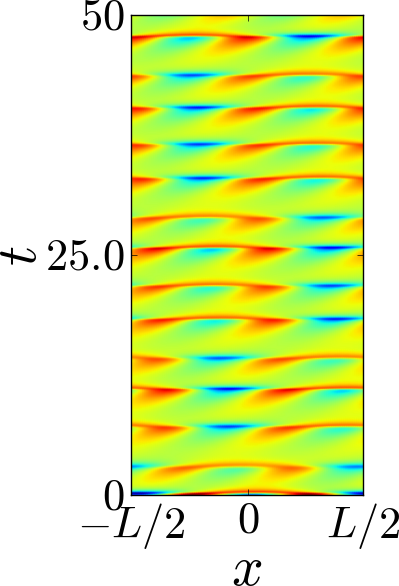
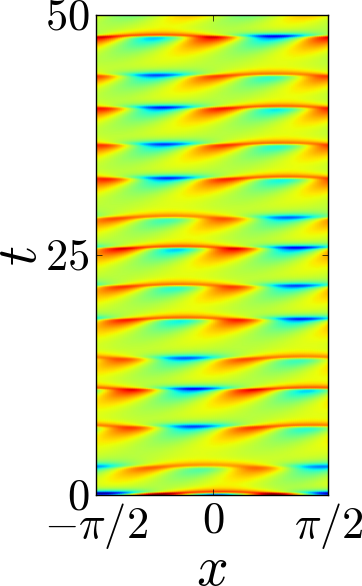
updated visualization section, added new figures, answered question from Evangelos

Changed region(s): [[0.0, 0.0, 1.0, 0.9522], [0.547, 0.9522, 0.6685, 1.0], [0.7597, 0.1229, 0.8508, 0.1536]]

diff --git a/cgang/flow.tex b/cgang/flow.tex
@@ -373,7 +373,7 @@ This \reqv\ traces out its group orbit in the \SOn{2}-equivariant, real-valued
 
 Before finishing our discussion of invariant polynomials, we have to make an
 important observation: Consider the case when the reflection symmetry breaking
-parameters $e_{1,2}$ in \refeq{eq:DangSO2} set to $0$. This restores 
+parameters, $e_{1,2}$ in \refeq{eq:DangSO2}, are set to $0$. This restores 
 $\sspC_{1,2} \rightarrow \bar{\sspC}_{1,2}$ symmetry, which is broken in 
 the \SOn{2}-equivariant case. Now, note that setting $ e_{1,2} $ to $0$ 
 decouples $q$ in \refeq{PKinvEqs1} from the rest of the invariant polynomials.
@@ -395,88 +395,55 @@ are left with three invariant polynomials that are related to each other by the
 syzygy \refeq{eq:syzPK}, thus the flow is effectively confined on a two dimensional
 manifold, hence cannot exhibit chaos. We must stress that this is a special result
 when one has only first and second Fourier mode, and the equivariant normal form 
-%includes terms upto the third order. 
+includes terms upto the third order. 
 
 \subsection{Visualizing \twomode\ dynamics}
 \label{s:visual}
 
-\begin{figure}%[H]
+\begin{figure*}%[H]
 \centering
-(a)\!\!\includegraphics[width=0.22\textwidth]{2modes-conf-reqv}%
-(b)\!\!\includegraphics[width=0.22\textwidth]{2modes-conf-reqv}%
+(a)\!\!\includegraphics[height=0.22\textwidth]{2modes-conf-reqv}%
+(b)\!\!\includegraphics[height=0.22\textwidth]{2modes-confred-reqv}%
+(c)\!\!\includegraphics[height=0.22\textwidth]{2modes-conf-rpo}%
+(d)\!\!\includegraphics[height=0.22\textwidth]{2modes-confred-rpo}%
+(e)\!\!\includegraphics[height=0.22\textwidth]{2modes-conf-ergodic}%
+(f)\!\!\includegraphics[height=0.22\textwidth]{2modes-confred-ergodic}%
 \caption{(Color online)
 The \reqv\ \REQV{}{} in
- (a) the full \statesp, becomes an \eqv\ in
+ (a) the symmetry-equivariant configuration space, becomes an \eqv\ in
  (b) the symmetry-reduced configuration space.
-}
-\label{fig:2modes-conf-reqv}
-\end{figure}
-
-\begin{figure}%[H]
-\centering
-(a)\!\!\includegraphics[width=0.22\textwidth]{2modes-conf-ergodic}
-(b)\!\!\includegraphics[width=0.22\textwidth]{2modes-conf-rpo}%
-\caption{(Color online)
- (a) A typical ergodic trajectory of the \twomode\ system in the
- symmetry-reduced configuration space; clearly the unstable \reqv\
- \REQV{}{} in \reffig{fig:2modes-conf-reqv}\,(b) is far from a typical
- state.
- (b) Two repeats of \rpo\ \cycle{01}  (note the different time scale),
- in the symmetry-reduced configuration space. The dynamics is mostly
- dominated by the $m=1$ Fourier mode, interspersed by rapid shifts by
- $\approx \pm L/2$, dominated by the  $m=2$ Fourier mode.
+Two repeats of \rpo\ \cycle{01} in the 
+ (c) the symmetry-equivariant configuration space, becomes a \po\ in
+ (d) the symmetry-reduced configuration space.
+A typical ergodic trajectory of the \twomode\ system 
+ the symmetry-equivariant configuration space (e), 
+ in the symmetry-reduced configuration space (f).
+Note that the color scale of each figure is different
+for visibility. 
 }
 \label{fig:2modes-conf}
-\end{figure}
+\end{figure*}
 
-\begin{figure}%[H]
+\begin{figure*}%[H]
 \centering
-\includegraphics[width=0.45\textwidth]{2modes-ssp}
+(a)\includegraphics[width=0.30\textwidth]{2modes-ssp}
+(b)\includegraphics[width=0.30\textwidth]{2modes-invpol}
+(c)\includegraphics[width=0.30\textwidth]{2modes-sspRed}
 \caption{(Color online)
-The same trajectories as in \reffig{fig:2modes-conf},
+The same trajectories as in \reffig{fig:2modes-conf} (a), (c), and (d),
 colored green, red and blue respectively,
-in a 3D projection of the 4\dmn\ \statesp.
+	(a) in a 3D projection of the 4\dmn\ \statesp ,
+	(b) in a terms of 3 invariant polynomials,
+	(c) in the 3\dmn\  first Fourier mode \slicePlane.
+Note that in the symmetry reduced representations (b and c), the \reqv\ \REQV{}{}
+is reduced to an \eqv , the green point; and the \cycle{01} (red) closes onto 
+itself after one repeat. In contrast to the invariant polynomial representation (b), 
+in the first Fourier mode \slicePlane (c), the qualitative difference between shifts 
+by $\approx \pi$ and $\approx-\pi$ in near passages to the {\sliceBord} is very clear, 
+and it leads to the unimodal Poincar\'e return map of \reffig{fig:psectandretmap}.
 }
 \label{fig:2modes-ssp}
-\end{figure}
-
-\begin{figure}%[H]
-\centering
-\includegraphics[width=0.45\textwidth]{2modes-invpol}
-\caption{(Color online)
-The same trajectories as in \reffig{fig:2modes-conf} and
-\reffig{fig:2modes-conf-reqv}\,(a), colored green, red
-and blue respectively, in a terms of 3 invariant polynomials.
-The \reqv\ \REQV{}{} is now reduced to an \eqv, the green point.
-}
-\label{fig:2modes-invpol}
-\end{figure}
-
-\begin{figure}%[H]
-\centering
-\includegraphics[width=0.45\textwidth]{2modes-sspRed}
-\caption{(Color online)
-The same trajectories as in \reffig{fig:2modes-conf} and
-\reffig{fig:2modes-conf-reqv}\,(a), colored green, red
-and blue respectively, in the 3\dmn\  first Fourier mode \slicePlane. The
-\reqv\ \REQV{}{} is now reduced to an \eqv, the green point. In contrast
-to the invariant polynomial representation \reffig{fig:2modes-invpol},
-the qualitative difference between shifts by $\approx L/2$ and $\approx
--L/2$ in near passages to the {\sliceBord} is very clear, and it leads to
-the unimodal Poincar\'e return map of \reffig{fig:psectandretmap}.
-}
-\label{2modes-sspRed}
-\end{figure}
-
-\PC{2014-07-14
-Why $\pm L/2$ in \reffig{fig:2modes-conf} and
-\reffig{fig:2modes-conf-reqv} and not $\pm \pi$?
-}
-\ES{2014-05-15}{I have replaced the second-mode slice, double-angled
-figure in \reffig{2modes-conf-reqv}\,(b) with one resulting by integrating on the
-$(0,0,1,0)$ slice, for consistency with panel (c). I hope Burak will
-replace it with a publication quality figure of the same representation.
-The trick of angle doubling will be introduced in its own section. }
+\end{figure*}
 
 We visualize the dynamics of the \twomode\ system in four different
 representations: 3D projections of the four-dimensional real valued
@@ -485,21 +452,38 @@ configuration space plots on which the color-coded field $u(\conf,\zeit)$
 is defined as follows:
 \bea
 	u(\conf, \tau) &=& \sum_{k=-2}^{2} \sspC_k(\zeit) e^{i k \conf}\, ,
-	\continue && \mbox{where} \, \sspC_{-k} = \sspC_k^* \, \mbox{and} \,
-	\sspC_0 = 0
+	\continue && \mbox{where} \, \sspC_{-k} = \sspC_k^* \, , \,
+	\sspC_0 = 0\, , \continue && \mbox{and} \, \conf \in [- \pi, \pi]
 \, .
 \eea
-\refFig{fig:2modes-conf}, \reffig{fig:2modes-conf-reqv}\,(a)
-and \reffig{2modes-sspRed} show the sole \reqv\
-\REQV{}{}, the \rpo\ \cycle{01}, and an ergodic trajectory of the
-\twomode\ system in the four different representations discussed above.
-Note that translation of the \reqv\ in the configuration space
-\reffig{fig:2modes-conf-reqv}\,(a), corresponds to the \SOn{2} rotations in
-the \statesp\ of Fourier modes in \reffig{2modes-ssp} (green curve) and
-these orbits correspond to a single point in the symmetry reduced
-representations of \reffig{fig:2modes-invpol} and \reffig{2modes-sspRed}.
-Note also that the \rpo\ \cycle{01} translates/rotates as it advances in
-configuration space (\reffig{fig:2modes-conf}\,(b)) and in the
-equivariant \statesp\ \reffig{2modes-sspRed} (\reffig{2modes-ssp}),
-whereas in the symmetry reduced plots (\reffig{fig:2modes-invpol} and
-\reffig{2modes-sspRed}), it closes onto itself after one period.
+We can also define the symmetry reduced configuration space representation
+as the inverse Fourier transform of the symmetry reduced Fourier modes:
+\bea
+	\hat{u}(\conf, \tau) &=& \sum_{k=-2}^{2} \sspRedC_k(\zeit) e^{i k \conf}\, ,
+	\continue && \mbox{where} \, \sspRedC_{-k} = \sspRedC_k^* \, , \,
+	\sspRedC_0 = 0\, , \continue && \mbox{and} \, \conf \in [- \pi, \pi]
+\, .
+\eea
+\refFig{fig:2modes-conf} (a, b) show the sole \reqv\ \REQV{}{}, 
+of the \twoMode\ system in the symmetry-equivariant and symmetry-reduced
+configuration spaces, respectively. Note that the \reqv\ becomes an \eqv\ after 
+the symmetry reduction. \refFig{fig:2modes-conf} (c, d) show the 
+\rpo\ \cycle{01} again respectively in the symmetry-equivariant and 
+symmetry-reduced configuration space representations. Similar to the
+\reqv, the \rpo\ becomes a \po\ after symmetry reduction. Finally, 
+\refFig{fig:2modes-conf} (c, d) show a typical ergodic trajectory
+of the \twoMode\ system in symmetry-equivariant and symmetry-reduced
+configuration space representations. Note, in each case, symmetry 
+reduction cancels the `drifts' along the symmetry ($x$) direction.
+These drifts translates to the Fourier mode representation as $\SOn{2}$
+rotations as we can clearly see from the \statesp\ plots of these 
+orbits in \reffig{fig:2modes-ssp} (a). The \reqv\ \REQV{}{} now 
+traces its \SOn{2} group orbit (green curve in 
+\reffig{fig:2modes-ssp} (a)) as it drifts in the configuration space;
+\rpo\ \cycle{01} (red) and the ergodic trajectory (blue) also rotate
+in the same fashion as they evolve. \refFig{fig:2modes-ssp} (c, d) 
+show three invariant polynomial projections and 3\dmn\ \slicePlane\
+representations of the same orbits, with the same color code. Note
+in both \refFig{fig:2modes-ssp} (c) and (d) the \reqv\ is reduced
+to an \eqv\ and the \rpo\ is reduced to a \po , since both of these
+representations are symmetry-invariant.

diff --git a/figSrc/2modes/ftwomodeconf.py b/figSrc/2modes/ftwomodeconf.py
@@ -32,6 +32,7 @@ x03 = [0.0384074556708, 0.0, -1.90362452394, 0.0668631895808] #attractor
 xphi01 = [0.43997, 0, -0.38627, 0.07020, 0] #reqv
 xphi02 = [4.525719078826287434e-01, -2.791192295890519988e-18, 
 5.092565177630036660e-02, 3.354280141917114627e-02, 0] #rpo 1 
+xphi02 = [0.43998243, 0.0, -1.68577368, 0.06639063, 0] #rpo 01 
 xphi03 = [0.0384074556708, 0.0, -1.90362452394, 0.0668631895808, 0] #attractor
 
 u01 = twomode.ssp2invpol(x01)
@@ -50,6 +51,11 @@ xsolreqv = sspsolver.integrate(x01, p, treqv)
 xsolrpo = sspsolver.integrate(x02, p, trpo)
 xsolergo = sspsolver.integrate(x03, p, tergo)
 
+xhatsolreqv = onslicesolver.integrate(xphi01, p, treqv)
+xhatsolrpo = onslicesolver.integrate(xphi02, p, trpo)
+xhatsolergo = onslicesolver.integrate(xphi03, p, tergo)
+
+
 def inverseFourier(xsol):
     """
     Generates configuration space solution u(x) = F^-1{z[k]} from the Fourier 
@@ -67,9 +73,14 @@ def inverseFourier(xsol):
     usol = usol.reshape((np.size(usol,0), np.size(usol, 2)))
     return usol
 
+#Compute inverse Fourier transforms of the equivariant solutions
 usolreqv = inverseFourier(xsolreqv)
 usolrpo = inverseFourier(xsolrpo)
 usolergo = inverseFourier(xsolergo)
+#Compute inverse Fourier transforms of the invariant solutions
+uhatsolreqv = inverseFourier(xhatsolreqv[:,0:4])
+uhatsolrpo = inverseFourier(xhatsolrpo[:,0:4])
+uhatsolergo = inverseFourier(xhatsolergo[:,0:4])
 
 fig = plt.figure(figsize=(3, 6)) #Create a figure instance
 
@@ -80,14 +91,32 @@ im = plt.pcolormesh(x, y, usolreqv[range(0,np.size(treqv),10),:], shading='goura
 
 plt.axis([x.min(), x.max(), y.min(), y.max()])
 
-plt.xticks([x[0],x[np.floor(np.size(x)/2)],x[-1]], ('$-L/2$', '$0$', '$L/2$'), fontsize=32)
-plt.yticks([0,tfreqv/2,tfreqv], 
-('$'+str(0)+'$', '$'+str(np.floor(tfreqv/2))+'$', '$'+str(tfreqv)+'$'), fontsize=32)
+plt.xticks([x[0],x[np.floor(np.size(x)/2)],x[-1]], ('$-\pi / 2$', '$0$', '$\pi / 2$'), fontsize=32)
+plt.yticks([0,tfreqv/2.0,tfreqv], 
+('$'+str(0)+'$', '$'+str(tfreqv/2)[0:2]+'$', '$'+str(tfreqv)[0:2]+'$'), fontsize=32)
 plt.xlabel('$x$', fontsize=40)
 plt.ylabel('$t$', fontsize=40)
 
 savefig('2modes-conf-reqv.png', bbox_inches='tight', dpi=100)
 call(['convert', '-trim', '2modes-conf-reqv.png', '2modes-conf-reqv.png'])
+
+fig.clf()
+
+x = np.arange(-np.size(uhatsolreqv, 1)/2, np.size(uhatsolreqv, 1)/2)
+y = treqv[range(0,np.size(treqv),10)]
+
+im = plt.pcolormesh(x, y, uhatsolreqv[range(0,np.size(treqv),10),:], shading='gouraud')
+
+plt.axis([x.min(), x.max(), y.min(), y.max()])
+
+plt.xticks([x[0],x[np.floor(np.size(x)/2)],x[-1]], ('$-\pi / 2$', '$0$', '$\pi / 2$'), fontsize=32)
+plt.yticks([0,tfreqv/2.0,tfreqv], 
+('$'+str(0)+'$', '$'+str(tfreqv/2)[0:2]+'$', '$'+str(tfreqv)[0:2]+'$'), fontsize=32)
+plt.xlabel('$x$', fontsize=40)
+plt.ylabel('$t$', fontsize=40)
+
+savefig('2modes-confred-reqv.png', bbox_inches='tight', dpi=100)
+call(['convert', '-trim', '2modes-confred-reqv.png', '2modes-confred-reqv.png'])
 
 fig.clf()
 
@@ -98,14 +127,32 @@ im = plt.pcolormesh(x, y, usolrpo[range(0,np.size(trpo),10),:], shading='gouraud
 
 plt.axis([x.min(), x.max(), y.min(), y.max()])
 
-plt.xticks([x[0],x[np.floor(np.size(x)/2)],x[-1]], ('$-L/2$', '$0$', '$L/2$'), fontsize=32)
+plt.xticks([x[0],x[np.floor(np.size(x)/2)],x[-1]], ('$-\pi / 2$', '$0$', '$\pi / 2$'), fontsize=32)
 plt.yticks([0,tfrpo/2,tfrpo], 
-('$'+str(0)+'$', '$'+str(np.floor(tfrpo/2))[0:4]+'$', '$'+str(tfrpo)[0:4]+'$'), fontsize=32)
+('$'+str(0)+'$', '$'+str(tfrpo/2.0)[0:3]+'$', '$'+str(tfrpo)[0:4]+'$'), fontsize=32)
 plt.xlabel('$x$', fontsize=40)
 plt.ylabel('$t$', fontsize=40)
 
 savefig('2modes-conf-rpo.png', bbox_inches='tight', dpi=100)
 call(['convert', '-trim', '2modes-conf-rpo.png', '2modes-conf-rpo.png'])
+
+fig.clf()
+
+x = np.arange(-np.size(uhatsolrpo, 1)/2, np.size(uhatsolrpo, 1)/2)
+y = trpo[range(0,np.size(trpo),10)]
+
+im = plt.pcolormesh(x, y, uhatsolrpo[range(0,np.size(trpo),10),:], shading='gouraud')
+
+plt.axis([x.min(), x.max(), y.min(), y.max()])
+
+plt.xticks([x[0],x[np.floor(np.size(x)/2)],x[-1]], ('$-\pi / 2$', '$0$', '$\pi / 2$'), fontsize=32)
+plt.yticks([0,tfrpo/2,tfrpo], 
+('$'+str(0)+'$', '$'+str(tfrpo/2.0)[0:3]+'$', '$'+str(tfrpo)[0:4]+'$'), fontsize=32)
+plt.xlabel('$x$', fontsize=40)
+plt.ylabel('$t$', fontsize=40)
+
+savefig('2modes-confred-rpo.png', bbox_inches='tight', dpi=100)
+call(['convert', '-trim', '2modes-confred-rpo.png', '2modes-confred-rpo.png'])
 
 fig.clf()
 
@@ -116,11 +163,29 @@ im = plt.pcolormesh(x, y, usolergo[range(0,np.size(tergo),10),:], shading='goura
 
 plt.axis([x.min(), x.max(), y.min(), y.max()])
 
-plt.xticks([x[0],x[np.floor(np.size(x)/2)],x[-1]], ('$-L/2$', '$0$', '$L/2$'), fontsize=32)
-plt.yticks([0,tfergo/2,tfergo], 
-('$'+str(0)+'$', '$'+str(np.floor(tfergo/2))+'$', '$'+str(tfergo)+'$'), fontsize=32)
+plt.xticks([x[0],x[np.floor(np.size(x)/2)],x[-1]], ('$-\pi / 2$', '$0$', '$\pi / 2$'), fontsize=32)
+plt.yticks([0,tfergo/2.0,tfergo], 
+('$'+str(0)+'$', '$'+str(tfergo/2.0)[0:2]+'$', '$'+str(tfergo)+'$'), fontsize=32)
 plt.xlabel('$x$', fontsize=40)
 plt.ylabel('$t$', fontsize=40)
 
 savefig('2modes-conf-ergodic.png', bbox_inches='tight', dpi=100)
 call(['convert', '-trim', '2modes-conf-ergodic.png', '2modes-conf-ergodic.png'])
+
+fig.clf()
+
+x = np.arange(-np.size(uhatsolergo, 1)/2, np.size(uhatsolergo, 1)/2)
+y = tergo[range(0,np.size(tergo),10)]
+
+im = plt.pcolormesh(x, y, uhatsolergo[range(0,np.size(tergo),10),:], shading='gouraud')
+
+plt.axis([x.min(), x.max(), y.min(), y.max()])
+
+plt.xticks([x[0],x[np.floor(np.size(x)/2)],x[-1]], ('$-\pi / 2$', '$0$', '$\pi / 2$'), fontsize=32)
+plt.yticks([0,tfergo/2.0,tfergo], 
+('$'+str(0)+'$', '$'+str(tfergo/2.0)[0:2]+'$', '$'+str(tfergo)+'$'), fontsize=32)
+plt.xlabel('$x$', fontsize=40)
+plt.ylabel('$t$', fontsize=40)
+
+savefig('2modes-confred-ergodic.png', bbox_inches='tight', dpi=100)
+call(['convert', '-trim', '2modes-confred-ergodic.png', '2modes-confred-ergodic.png'])

diff --git a/blog/2modesBB.tex b/blog/2modesBB.tex
@@ -3875,9 +3875,9 @@ escape rate is found by solving $\zeta (\beta = 0, s_0) = 0$, where $s_0$ is the
 $0$ of the dynamical zeta function; then the escape rate is $\gamma = - s_0$. 
 
 Here are numbers I get when I compute the flow conversation rule for the zeta function
-(finite grammar) in order upto $5$ in the expansion:
+(finite grammar \BBedit{Falsch! all RPOs}) in order upto $5$ in the expansion:
 \bea
-	\zeta (0, 0) &=& 0.326019994263891, -0.173842965806291, 0.126663646598951, \continue
+	\zeta (0, 0)^{-1} &=& 0.326019994263891, -0.173842965806291, 0.126663646598951, \continue
 				 && 	-0.0681237161617973, 0.0293660939936478, ...
 \eea
 so our initial numbers are same. For the escape rate, I get the following:
@@ -3892,7 +3892,7 @@ and this approximation is simply wrong for \cycle{1}, since $\Lambda_{\cycle{1}}
 
 \item[2014-07-15 Evangelos] You are right, I assumed that escape rate should be zero and
 computed the flow conservation rule. I now see why I cannot compare with escape rate directly at 
-N=1, thanks. (by the way, shouldn't it be $\zeta(0,0)^{-1}$ above?)
+N=1, thanks. (by the way, shouldn't it be $\zeta(0,0)^{-1}$ above? \BBedit{fixed it})
 
 \item[2014-07-15 Evangelos] Are you sure that the results above are for the finite grammar approximation?
 When I use 'all rpos', I get
@@ -3913,6 +3913,9 @@ If I understand your database 'all rpos' correctly, the first missing rpos (comp
 binary) appears at topological length four, right? Is this because multiple shooting did
 not converge, or do you expect that the missing cycles are really forbidden?  
 
+\item[2014-07-15 Burak] You're right, I used `all rpos' database for the numbers above,
+sorry for the confusion. The difference between two sets starts at the topological length $n=3$, 
+since in the finite grammar approximation, we discard \cycle{001}.
 
 \item[2014-07-14 Burak] I made changes in the outline and added \On{2} discussion 
 in the text, and then something weird happenned: \texttt{2modes.tex} stopped compiling

diff --git a/blog/flotsam2modes.tex b/blog/flotsam2modes.tex
@@ -713,3 +713,17 @@ representative point on  \REQV{}{} may be chosen as
 \[
   \left(x_1, y_1, x_2, y_2\right) = \left(0.439966, 0, -0.386267, 0.070204\right)
 \]
+
+
+{\bf[2014-07-15 Burak]} Taken out from \refsect{s:flow}:
+\newline
+
+\PC{2014-07-14
+Why $\pm L/2$ in \reffig{fig:2modes-conf} and
+\reffig{fig:2modes-conf-reqv} and not $\pm \pi$?
+}
+\ES{2014-05-15}{I have replaced the second-mode slice, double-angled
+figure in \reffig{2modes-conf-reqv}\,(b) with one resulting by integrating on the
+$(0,0,1,0)$ slice, for consistency with panel (c). I hope Burak will
+replace it with a publication quality figure of the same representation.
+The trick of angle doubling will be introduced in its own section. }
